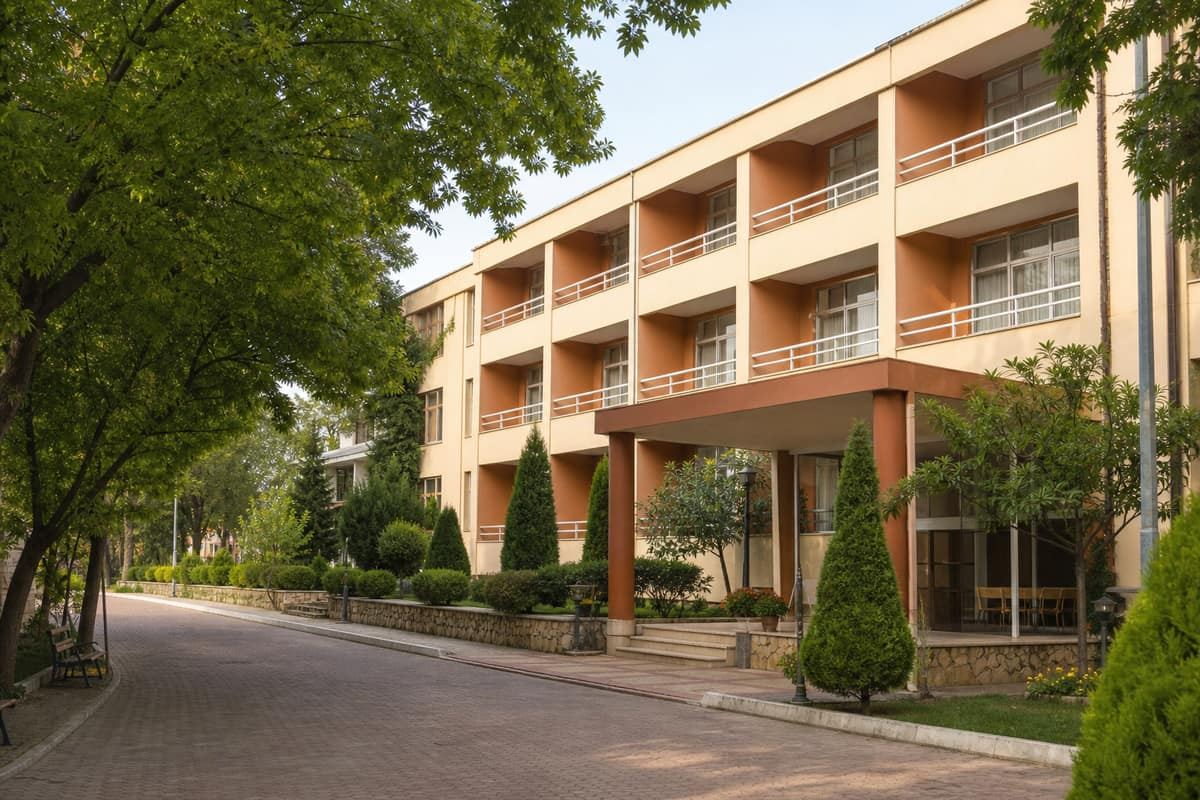
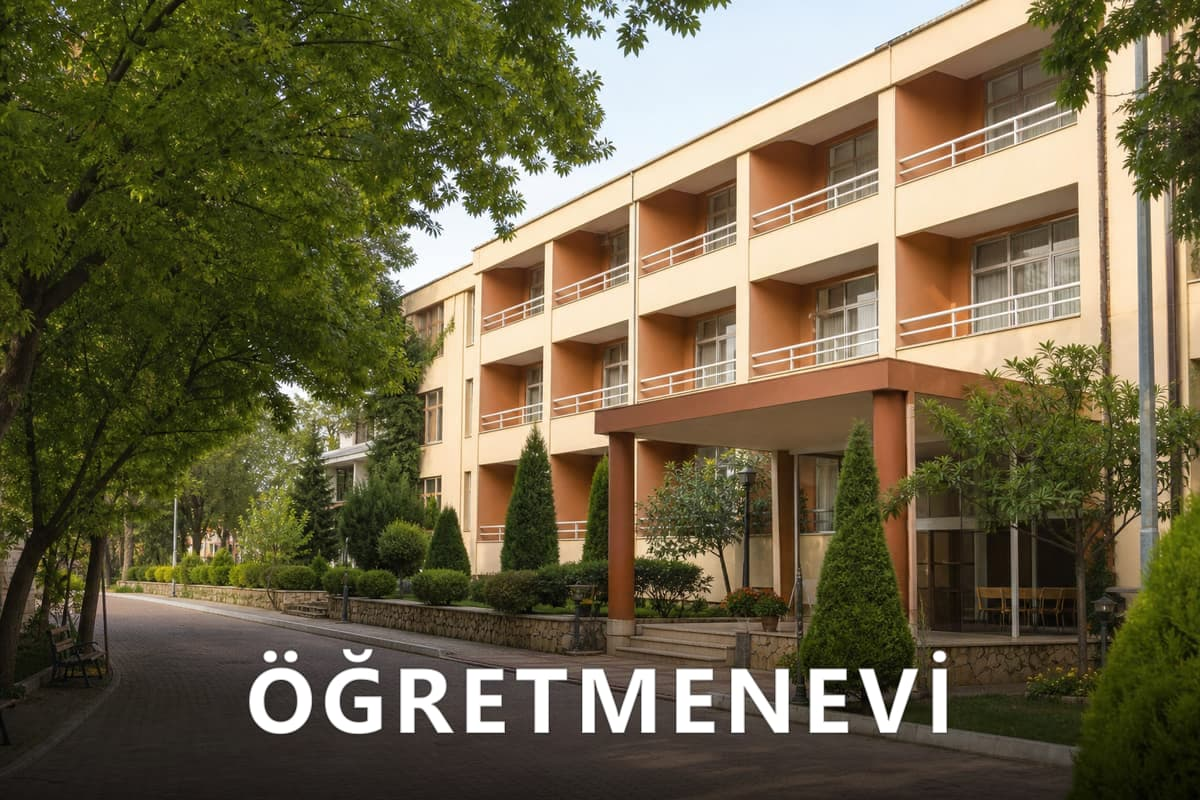
Bake facility type labels onto category images so users recognize them at a glance

Changed region(s): [[0.0, 0.7188, 1.0, 1.0]]

diff --git a/scripts/label-facility-images.js b/scripts/label-facility-images.js
@@ -1,0 +1,49 @@
+/**
+ * Kategori görsellerinin üzerine tesis tipi etiketini işler.
+ * Kullanım: node scripts/label-facility-images.js
+ */
+const fs = require("fs");
+const sharp = require("sharp");
+
+const items = [
+  { file: "public/facilities/orduevi.jpg", label: "ORDUEVİ" },
+  { file: "public/facilities/polisevi.jpg", label: "POLİSEVİ" },
+  { file: "public/facilities/ogretmenevi.jpg", label: "ÖĞRETMENEVİ" },
+  { file: "public/facilities/misafirhane.jpg", label: "MİSAFİRHANE" },
+];
+
+async function main() {
+  for (const { file, label } of items) {
+    // Windows'ta dosya kilidi sorununu önlemek için önce belleğe oku
+    const img = sharp(fs.readFileSync(file));
+    const { width: w, height: h } = await img.metadata();
+    const bandH = Math.round(h * 0.3);
+    const fontSize = Math.round(w / 13);
+    const textY = h - Math.round(bandH * 0.28);
+
+    const svg = Buffer.from(`<svg width="${w}" height="${h}" xmlns="http://www.w3.org/2000/svg">
+  <defs>
+    <linearGradient id="g" x1="0" y1="0" x2="0" y2="1">
+      <stop offset="0" stop-color="black" stop-opacity="0"/>
+      <stop offset="1" stop-color="black" stop-opacity="0.72"/>
+    </linearGradient>
+  </defs>
+  <rect x="0" y="${h - bandH}" width="${w}" height="${bandH}" fill="url(#g)"/>
+  <text x="50%" y="${textY}" text-anchor="middle"
+    font-family="Segoe UI, Arial, sans-serif" font-size="${fontSize}" font-weight="800"
+    letter-spacing="6" fill="white" stroke="black" stroke-opacity="0.25" stroke-width="2">${label}</text>
+</svg>`);
+
+    const out = await img
+      .composite([{ input: svg }])
+      .jpeg({ quality: 74, mozjpeg: true })
+      .toBuffer();
+    fs.writeFileSync(file, out);
+    console.log(file, out.length);
+  }
+}
+
+main().catch((e) => {
+  console.error(e);
+  process.exit(1);
+});

diff --git a/src/components/home/NearbyFacilities.tsx b/src/components/home/NearbyFacilities.tsx
@@ -112,15 +112,11 @@ export function NearbyFacilities({ facilities, limit = 6, className }: Props) {
                         <div className="relative aspect-[16/10] w-full bg-slate-200 dark:bg-slate-700">
                           <Image
                             src={getFacilityImageSrc(facility.tip)}
-                            alt=""
+                            alt={getDisplayFacilityType(facility.tip)}
                             fill
                             sizes="(max-width: 640px) 100vw, (max-width: 1024px) 50vw, 33vw"
                             className="object-cover"
                           />
-                          <div className="absolute inset-0 bg-gradient-to-t from-black/30 via-transparent to-transparent" />
-                          <span className="absolute left-3 top-3 rounded-lg bg-[#0F62FE] px-2.5 py-1 text-[11px] font-bold uppercase text-white">
-                            {getDisplayFacilityType(facility.tip)}
-                          </span>
                           <span className="absolute right-3 top-3 inline-flex items-center gap-1 rounded-full bg-white/95 px-2.5 py-1 text-xs font-bold tabular-nums text-[#0f766e] shadow-sm dark:bg-slate-900/90 dark:text-teal-300">
                             <Navigation className="h-3 w-3" aria-hidden />
                             {formatDistance(facility.distance)}

diff --git a/src/components/home/FacilitySections.tsx b/src/components/home/FacilitySections.tsx
@@ -45,17 +45,11 @@ export function FacilityCard({ facility }: { facility: Tesis }) {
       <div className="relative aspect-[16/10] w-full overflow-hidden bg-slate-200 dark:bg-slate-700">
         <Image
           src={imageSrc}
-          alt=""
+          alt={displayType}
           fill
           sizes="(max-width: 640px) 100vw, (max-width: 1024px) 50vw, 33vw"
           className="object-cover transition duration-500 hover:scale-[1.03]"
         />
-        <div className="absolute inset-0 bg-gradient-to-t from-black/35 via-transparent to-transparent" />
-        <div className="absolute left-3 top-3 flex items-start justify-between gap-2">
-          <span className="inline-block w-fit rounded-lg bg-[#0F62FE] px-2.5 py-1 text-xs font-bold uppercase text-white shadow-sm">
-            {displayType}
-          </span>
-        </div>
         <div className="absolute right-3 top-3">
           <FavoriteButton
             facility={{ isim: facility.isim, tip: String(facility.tip ?? ""), il: facility.il }}
